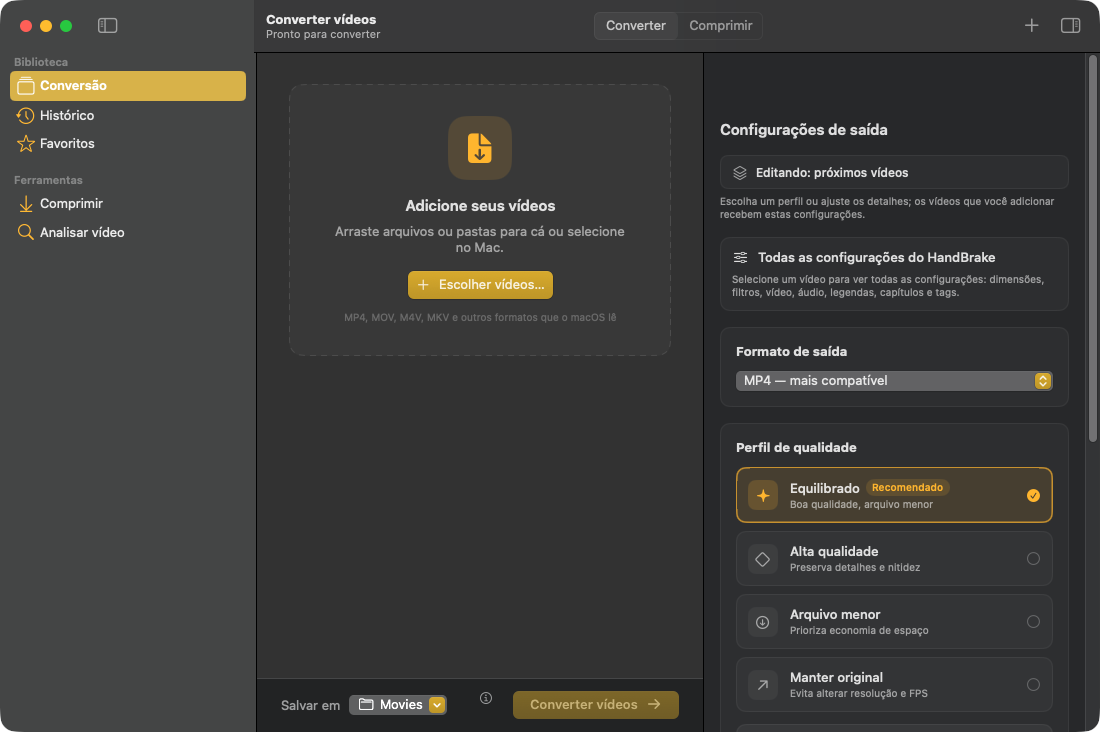
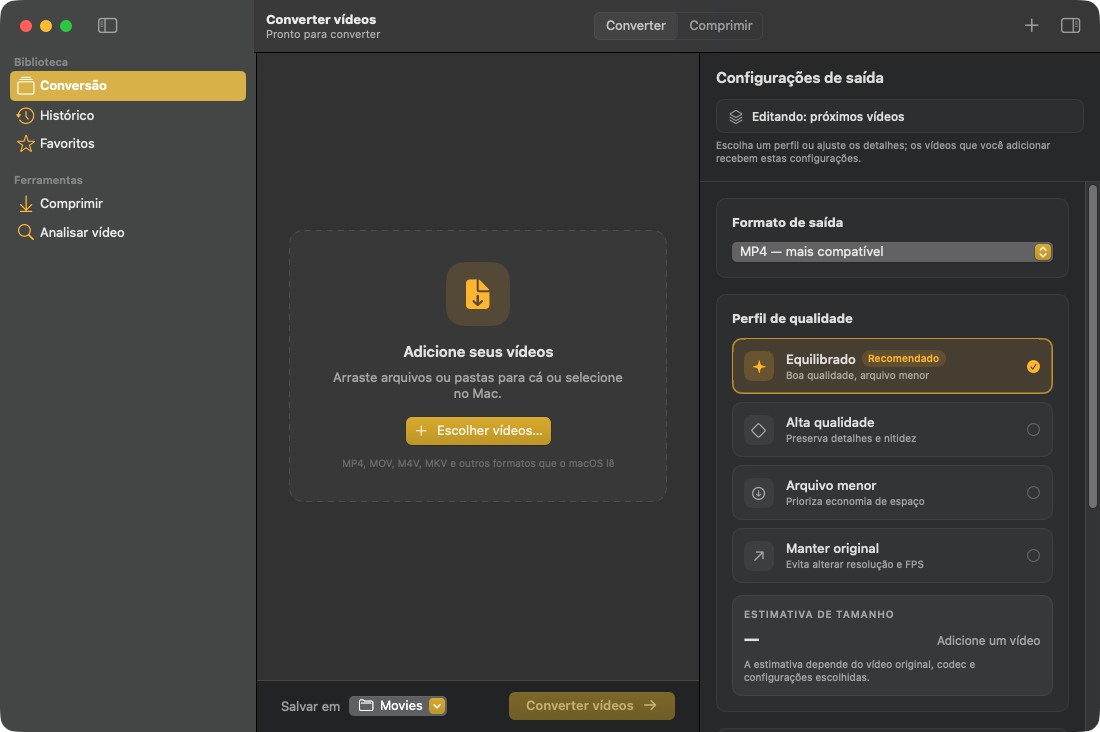
feat(03.1.2): inspector header, richer video rows and centred empty state
Fixes the window content jumping up: a vertically fixed-size text outside a
scroll view demanded a very tall window.

diff --git a/Sources/HyperVideoConverter/Views/Workspace/WorkRows.swift b/Sources/HyperVideoConverter/Views/Workspace/WorkRows.swift
@@ -10,8 +10,8 @@ struct SourceRowView: View {
     var body: some View {
         HStack(spacing: Spacing.m) {
             Thumbnail(image: source.thumbnail, symbol: source.errorMessage == nil ? "play.fill" : "exclamationmark.triangle",
-                      isLoading: source.isLoading)
-            VStack(alignment: .leading, spacing: Spacing.xs) {
+                      isLoading: source.isLoading, duration: source.info?.duration, size: .large)
+            VStack(alignment: .leading, spacing: Spacing.xs + 2) {
                 Text(source.name)
                     .font(.body.weight(.medium))
                     .lineLimit(1)
@@ -24,6 +24,7 @@ struct SourceRowView: View {
                             label: "Remove \(source.name)") { model.removeSource(source.id) }
         }
         .padding(.vertical, Spacing.xs)
+        .hoverLift(1.005)
     }
 
     @ViewBuilder
@@ -33,15 +34,13 @@ struct SourceRowView: View {
                 .font(.caption).foregroundStyle(Theme.danger).lineLimit(1)
                 .help(error)
         } else if let info = source.info {
-            HStack(spacing: 6) {
-                Text(verbatim: RowFacts.meta(url: source.url, info: info))
-                    .foregroundStyle(.secondary)
-                    .lineLimit(1)
+            HStack(spacing: Spacing.xs) {
+                ForEach(RowFacts.tags(url: source.url, info: info), id: \.self) { MetaTag(text: $0) }
                 if !source.settings.isValid {
-                    Text("Check settings").foregroundStyle(Theme.warning)
+                    MetaTag(text: String(localized: "Check settings"), tint: Theme.warning)
                 }
             }
-            .font(.caption)
+            .lineLimit(1)
         } else {
             Text("Analyzing…").font(.caption).foregroundStyle(.secondary)
         }
@@ -78,7 +77,8 @@ struct JobRowView: View {
 
     var body: some View {
         HStack(spacing: Spacing.m) {
-            Thumbnail(image: model.ui.thumbnails[job.source], symbol: "clock", isLoading: false)
+            Thumbnail(image: model.ui.thumbnails[job.source], symbol: "clock", isLoading: false,
+                      duration: job.mediaDuration, size: .large)
             VStack(alignment: .leading, spacing: Spacing.xs) {
                 Text(job.source.lastPathComponent)
                     .font(.body.weight(.medium))
@@ -156,28 +156,66 @@ private struct JobProgressStatus: View {
     }
 }
 
-/// The small picture at the start of a row; the real frame fades in over the placeholder.
+/// The picture at the start of a row; the real frame fades in over the placeholder,
+/// with the duration in a corner badge like Photos and Finder show it.
 struct Thumbnail: View {
+    enum Size {
+        case regular, large
+        var frame: CGSize { self == .large ? CGSize(width: 72, height: 44) : CGSize(width: 48, height: 36) }
+    }
+
     let image: NSImage?
     let symbol: String
     let isLoading: Bool
+    var duration: Double?
+    var size: Size = .regular
 
     var body: some View {
-        ZStack {
-            LinearGradient(colors: [Color(hex: 0x3B5765), Color(hex: 0x16232D)],
-                           startPoint: .topLeading, endPoint: .bottomTrailing)
-            Image(systemName: isLoading ? "rays" : symbol)
-                .font(.system(size: 13))
-                .foregroundStyle(Color(hex: 0xC7E7F7))
-                .symbolEffect(.rotate, isActive: isLoading)
-            if let image {
-                Image(nsImage: image).resizable().aspectRatio(contentMode: .fill)
-                    .motionTransition(.opacity)
+        ZStack(alignment: .bottomTrailing) {
+            ZStack {
+                LinearGradient(colors: [Color(hex: 0x3B5765), Color(hex: 0x16232D)],
+                               startPoint: .topLeading, endPoint: .bottomTrailing)
+                Image(systemName: isLoading ? "rays" : symbol)
+                    .font(.system(size: 13))
+                    .foregroundStyle(Color(hex: 0xC7E7F7))
+                    .symbolEffect(.rotate, isActive: isLoading)
+                if let image {
+                    Image(nsImage: image).resizable().aspectRatio(contentMode: .fill)
+                        .motionTransition(.opacity)
+                }
+            }
+            if let duration, duration > 0 {
+                Text(Format.duration(duration))
+                    .font(.system(size: 9, weight: .semibold))
+                    .monospacedDigit()
+                    .foregroundStyle(.white)
+                    .padding(.horizontal, 4)
+                    .padding(.vertical, 1)
+                    .background(.black.opacity(0.55), in: .rect(cornerRadius: 3))
+                    .padding(3)
             }
         }
-        .frame(width: 48, height: 36)
+        .frame(width: size.frame.width, height: size.frame.height)
         .clipShape(.rect(cornerRadius: Radius.s))
+        .overlay { RoundedRectangle(cornerRadius: Radius.s).strokeBorder(.separator.opacity(0.5), lineWidth: 0.5) }
+        .shadow(color: .black.opacity(0.15), radius: 2, y: 1)
         .motion(Motion.quick, value: image != nil)
+    }
+}
+
+/// A small rounded tag for a media fact ("MP4", "H.264", "1280 × 720").
+struct MetaTag: View {
+    let text: String
+    var tint: Color?
+
+    var body: some View {
+        Text(verbatim: text)
+            .font(.caption2.weight(.medium))
+            .monospacedDigit()
+            .foregroundStyle(tint.map { AnyShapeStyle($0) } ?? AnyShapeStyle(.secondary))
+            .padding(.horizontal, 6)
+            .padding(.vertical, 2)
+            .background(tint.map { AnyShapeStyle($0.opacity(0.15)) } ?? AnyShapeStyle(.fill.tertiary), in: .rect(cornerRadius: 4))
     }
 }
 
@@ -214,5 +252,12 @@ enum RowFacts {
             info.displaySize.map(Format.size),
             Format.duration(info.duration)
         ].compactMap { $0 }.filter { !$0.isEmpty }.joined(separator: " · ")
+    }
+
+    /// The row's tags: container, codec and size (the duration sits on the thumbnail).
+    static func tags(url: URL, info: MediaInfo) -> [String] {
+        [url.pathExtension.uppercased(), info.videoCodec, info.displaySize.map(Format.size)]
+            .compactMap { $0 }
+            .filter { !$0.isEmpty }
     }
 }

diff --git a/Sources/HyperVideoConverter/Views/Inspector/OutputInspector.swift b/Sources/HyperVideoConverter/Views/Inspector/OutputInspector.swift
@@ -2,48 +2,70 @@ import HyperVideoCore
 import SwiftUI
 
 /// "Output settings": the everyday choices, applied to the selected videos or to all of them.
+/// A fixed header (title, scope, the way into every setting) over the scrolling fields,
+/// laid out like the single-video panel so switching between them doesn't jump.
 struct OutputInspector: View {
     @Environment(AppModel.self) private var model
 
     private var settings: EncodeSettings { model.inspectorSettings }
 
     var body: some View {
-        ScrollView {
-            VStack(alignment: .leading, spacing: Spacing.l) {
-                Text("Output Settings").font(.title3.weight(.semibold))
-                ScopeChip()
-                // The way into every HandBrake setting stays in view, above the quick fields.
-                AllSettingsHintCard()
+        VStack(spacing: 0) {
+            header
+            Divider()
+            ScrollView {
+                VStack(alignment: .leading, spacing: Spacing.l) {
+                    group {
+                        FieldLabel(title: "Output Format")
+                        FormatPicker(settings: settings) { container in model.editTargets { $0 = $0.choosing(container: container) } }
+                            .help("The file type, shown as the file's extension (.mp4, .mov…).")
+                    }
 
-                group {
-                    FieldLabel(title: "Output Format")
-                    FormatPicker(settings: settings) { container in model.editTargets { $0 = $0.choosing(container: container) } }
-                        .help("The file type, shown as the file's extension (.mp4, .mov…).")
-                }
+                    group {
+                        FieldLabel(title: "Quality Profile")
+                        ProfileCards(selected: model.inspectorProfile) { model.applyProfile($0) }
+                        if let personalized = model.inspectorPersonalizedProfile {
+                            PersonalizedNote(profile: personalized) { model.applyProfile(personalized) }
+                                .motionTransition(.pop)
+                        }
+                        EstimateCard()
+                    }
+                    .motion(value: model.inspectorPersonalizedProfile)
 
-                group {
-                    FieldLabel(title: "Quality Profile")
-                    ProfileCards(selected: model.inspectorProfile) { model.applyProfile($0) }
-                    if let personalized = model.inspectorPersonalizedProfile {
-                        PersonalizedNote(profile: personalized) { model.applyProfile(personalized) }
+                    group { VideoFields(settings: settings) { change in model.editTargets(change) } }
+                    group { InspectorToggles(settings: settings) { change in model.editTargets(change) } }
+
+                    if !settings.validationIssues.isEmpty {
+                        StatusBanner(messages: settings.validationIssues.map { String(localized: String.LocalizationValue($0)) })
                             .motionTransition(.pop)
                     }
-                    EstimateCard()
                 }
-                .motion(value: model.inspectorPersonalizedProfile)
+                .padding(Spacing.l)
+                .motion(value: settings.validationIssues)
+            }
+            .compatSoftScrollEdges()
+        }
+    }
 
-                group { VideoFields(settings: settings) { change in model.editTargets(change) } }
-                group { InspectorToggles(settings: settings) { change in model.editTargets(change) } }
-
-                if !settings.validationIssues.isEmpty {
-                    StatusBanner(messages: settings.validationIssues.map { String(localized: String.LocalizationValue($0)) })
-                        .motionTransition(.pop)
+    private var header: some View {
+        VStack(alignment: .leading, spacing: Spacing.m) {
+            HStack(alignment: .firstTextBaseline) {
+                Text("Output Settings").font(.title3.weight(.semibold))
+                Spacer()
+                if !model.sources.isEmpty {
+                    Button { model.showFirstVideoSettings() } label: {
+                        Label("All Settings", systemImage: "slider.horizontal.3")
+                    }
+                    .compatGlassButtonStyle()
+                    .controlSize(.small)
+                    .help("Select one video to see every setting: dimensions, filters, video, audio, subtitles, chapters and tags.")
+                    .motionTransition(.pop)
                 }
             }
-            .padding(Spacing.l)
-            .motion(value: settings.validationIssues)
+            ScopeChip()
         }
-        .compatSoftScrollEdges()
+        .padding(Spacing.l)
+        .motion(value: model.sources.isEmpty)
     }
 
     /// One card per group of fields.

diff --git a/Tests/HyperVideoConverterTests/DesignSystemTests.swift b/Tests/HyperVideoConverterTests/DesignSystemTests.swift
@@ -61,6 +61,23 @@ struct SidebarNavigationTests {
     }
 }
 
+@Suite("Row facts")
+struct RowFactsTests {
+    @Test func tagsAreContainerCodecAndSizeWithoutTheDuration() {
+        let url = URL(fileURLWithPath: "/tmp/clip.mov")
+        let info = MediaInfo(url: url, duration: 135, displaySize: CGSize(width: 1920, height: 1080), frameRate: 30,
+                             videoCodec: "HEVC", videoBitrate: nil, dynamicRange: .sdr, audioTracks: [], fileBytes: 1)
+        #expect(RowFacts.tags(url: url, info: info) == ["MOV", "HEVC", "1920 × 1080"])
+    }
+
+    @Test func missingFactsAreLeftOut() {
+        let url = URL(fileURLWithPath: "/tmp/noext")
+        let info = MediaInfo(url: url, duration: 10, displaySize: nil, frameRate: nil,
+                             videoCodec: nil, videoBitrate: nil, dynamicRange: .sdr, audioTracks: [], fileBytes: 1)
+        #expect(RowFacts.tags(url: url, info: info).isEmpty)
+    }
+}
+
 @Suite("Native list wiring")
 @MainActor
 struct NativeListTests {

diff --git a/Sources/HyperVideoConverter/Views/Workspace/WorkspaceView.swift b/Sources/HyperVideoConverter/Views/Workspace/WorkspaceView.swift
@@ -23,12 +23,15 @@ struct WorkspaceView: View {
         .background(Theme.background)
     }
 
+    /// The drop target, centred in the page (and scrollable in a short window).
     private var emptyState: some View {
-        ScrollView {
-            DropZoneView(compact: false)
-                .frame(maxWidth: 560)
-                .padding(Spacing.xxl)
-                .frame(maxWidth: .infinity)
+        GeometryReader { proxy in
+            ScrollView {
+                DropZoneView(compact: false)
+                    .frame(maxWidth: 560)
+                    .padding(Spacing.xxl)
+                    .frame(maxWidth: .infinity, minHeight: proxy.size.height)
+            }
         }
     }
 

diff --git a/Sources/HyperVideoConverter/Views/Inspector/ScopeChip.swift b/Sources/HyperVideoConverter/Views/Inspector/ScopeChip.swift
@@ -29,10 +29,12 @@ struct ScopeChip: View {
             .card(model.inspectsSelection ? .selected : .standard, radius: Radius.s + 2)
             .accessibilityElement(children: .combine)
 
+            // A line limit, not fixedSize: this sits outside a scroll view, where a
+            // vertical fixedSize at zero width would demand a very tall window.
             Text(verbatim: detail)
                 .font(.footnote)
                 .foregroundStyle(.secondary)
-                .fixedSize(horizontal: false, vertical: true)
+                .lineLimit(3)
         }
         .motion(value: model.inspectsSelection)
     }

diff --git a/.planning/phases/03.1.2-premium-native-macos-design/03.1.2-SUMMARY.md b/.planning/phases/03.1.2-premium-native-macos-design/03.1.2-SUMMARY.md
@@ -34,3 +34,10 @@ Page switch, empty ↔ list, rows added/removed/reordered, selection, inspector 
 ## Not covered
 - macOS 15 VM run of the new UI (phase 3's VM check is still pending and will cover it).
 - Interactive hover/animation can't be shown in stills.
+
+## Round 2 (2026-10-23)
+- All-videos inspector gets a fixed header (title, "All Settings" button, scope) like the single-video panel; the separate HandBrake hint card is gone.
+- Bug found and fixed: a `fixedSize(vertical)` text outside a scroll view made the window's minimum height huge at zero width, pushing the whole window content up. Rule: outside scroll views use `lineLimit`, never vertical `fixedSize`.
+- Video rows: 72×44 thumbnails with a duration badge, hairline and shadow; container/codec/size as tags; hover lift.
+- Empty state: drop zone centred in the page.
+- Testing is done on this Mac only (no VM).
